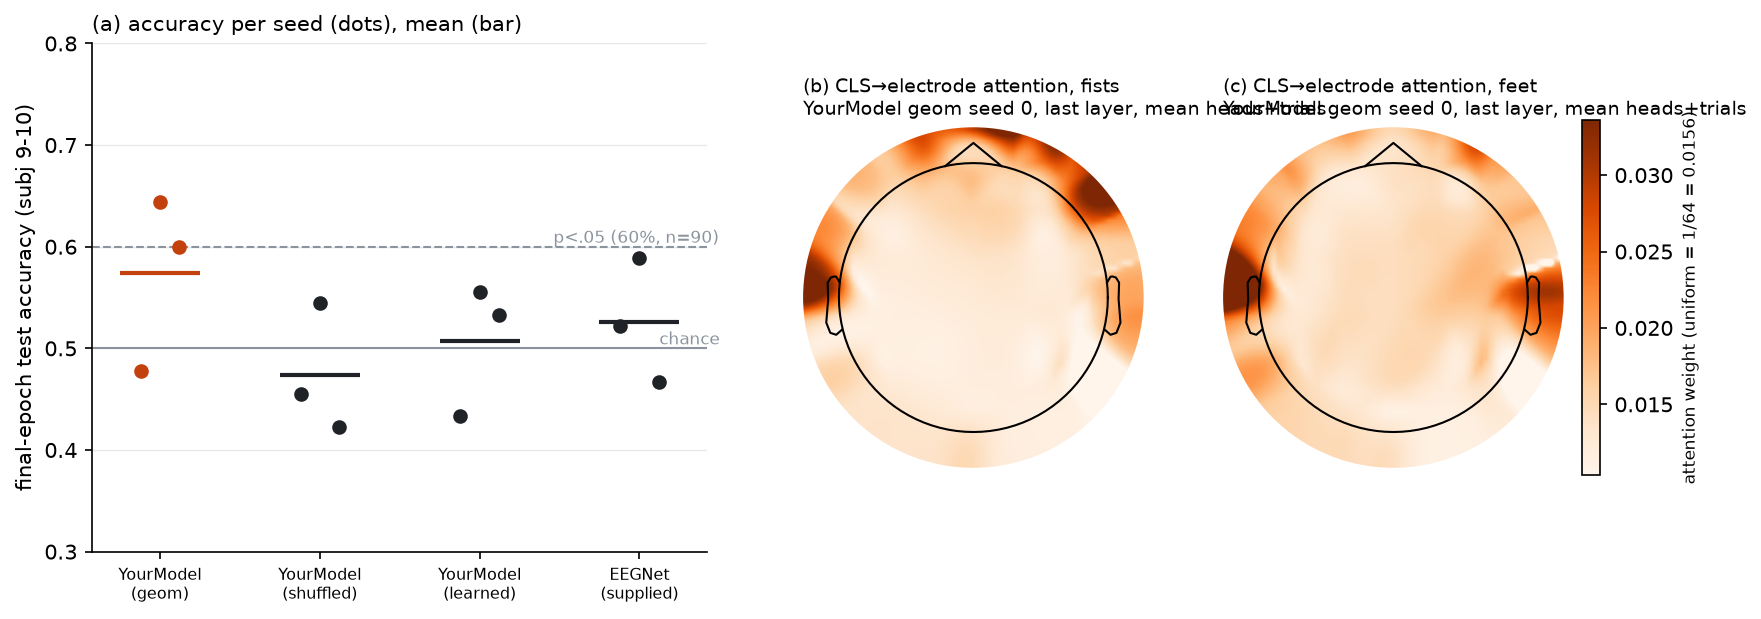
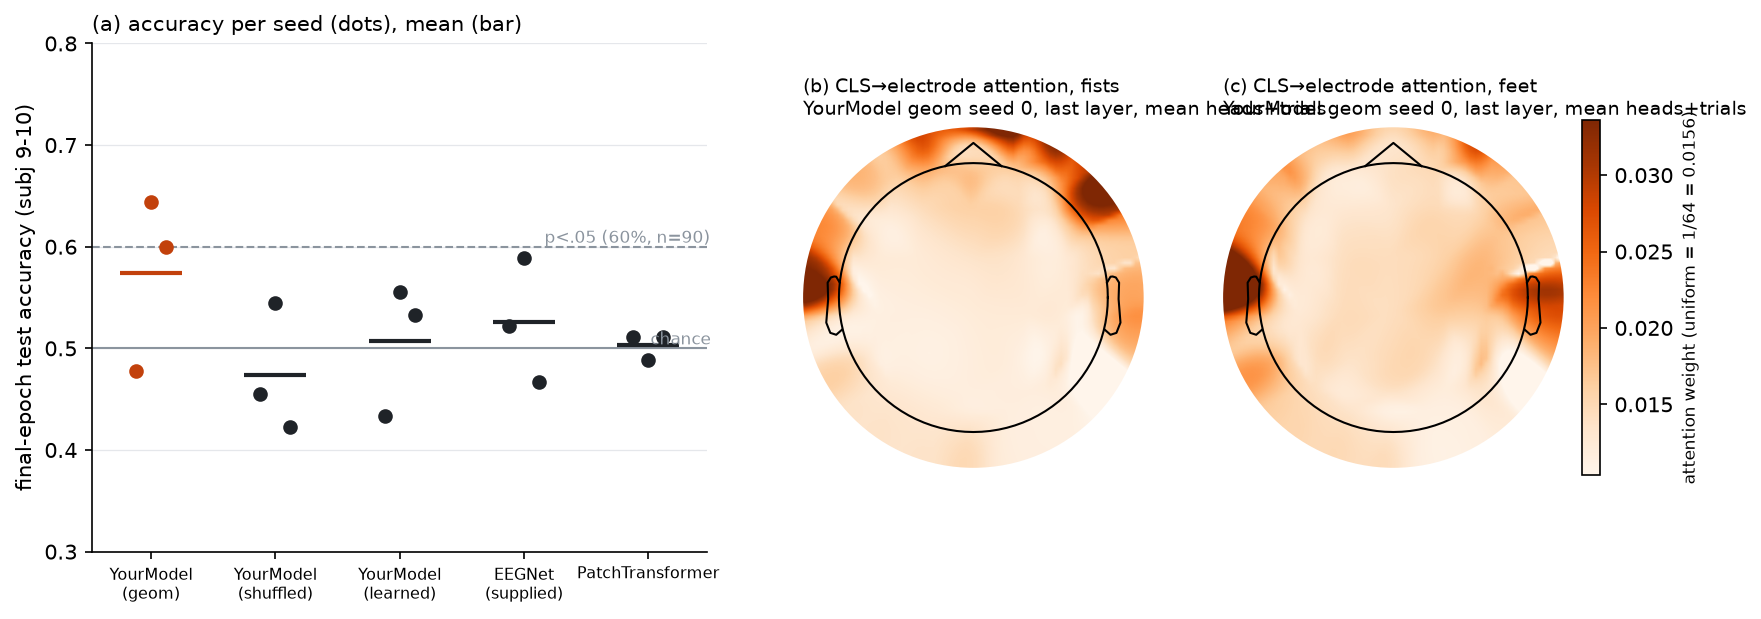
p2: results - PatchTransformer seeds 0-2; vanilla + EEGNet-P1 cut by time limit (CPU contention); final table

diff --git a/part2_transformer/README.md b/part2_transformer/README.md
@@ -106,9 +106,14 @@ Reproduce with `python -u main.py --epochs 20 --seeds 0 1 2`; every run is appen
 | YourModel (shuffled) | 76,930 | 0,1,2 | 0.456 / 0.544 / 0.422 | 0.544 | 0.422 | 0.474 ± 0.052 | 0.526 |
 | YourModel (learned) | 78,786 | 0,1,2 | 0.433 / 0.556 / 0.533 | 0.556 | 0.433 | 0.507 ± 0.053 | 0.552 |
 | EEGNet (supplied) | 2,610 | 0,1,2 | 0.522 / 0.589 / 0.467 | 0.589 | 0.467 | 0.526 ± 0.050 | 0.541 |
+| PatchTransformer | 232,898 | 0,1,2 | 0.511 / 0.489 / 0.511 | 0.511 | 0.489 | 0.504 ± 0.010 | 0.593 |
 <!-- /table -->
 
-MISSING_RUNS
+**Missing runs:** **VanillaTransformer, seeds 0/1/2: none finished**, and **EEGNet-P1 (Part 1 config `kern=80, p=0.5`):
+not run**. The reason is CPU contention with the concurrent Part 1 job. The patch model went from ~10 s to 143–427 s per
+seed, and vanilla (≈ 20 s/epoch on a free CPU) was stopped at the time limit before its first seed ended. So this table
+has no vanilla row: the "beat the vanilla transformer" half of the hypothesis is **untested**. Reproduce the missing rows
+with `python -u main.py --epochs 20 --only vanilla eegnet_p1`.
 
 **Reading:**
 - **No conclusive win.** YourModel (geom) has the highest mean final accuracy (0.574) and is the only model with seeds at
@@ -117,7 +122,9 @@ MISSING_RUNS
   Part 1 (0.522 on the same subjects 9–10).
 - **Seed variance did not drop.** geom std 0.070 vs EEGNet 0.050. "Stability" was part of the hypothesis and is not
   supported.
-- **Peak flatters every model** (by 1–8 pts on the means), which is why final is the headline.
+- **Patch model:** the lowest seed variance (std 0.010) but at chance (mean 0.504). It also has the largest peak-vs-final
+  gap (8.9 pts), so its test curve fluctuates during training even though it ends at chance.
+- **Peak flatters every model** (by 1.5–8.9 pts on the means), which is why final is the headline.
 
 **Figure:** `figure.png`: (a) final accuracy per seed for every model; (b, c) the geom seed-0 model's last-layer
 CLS→electrode attention for fists and feet. Attention is **not** central: it sits on the scalp rim. For fists the top
